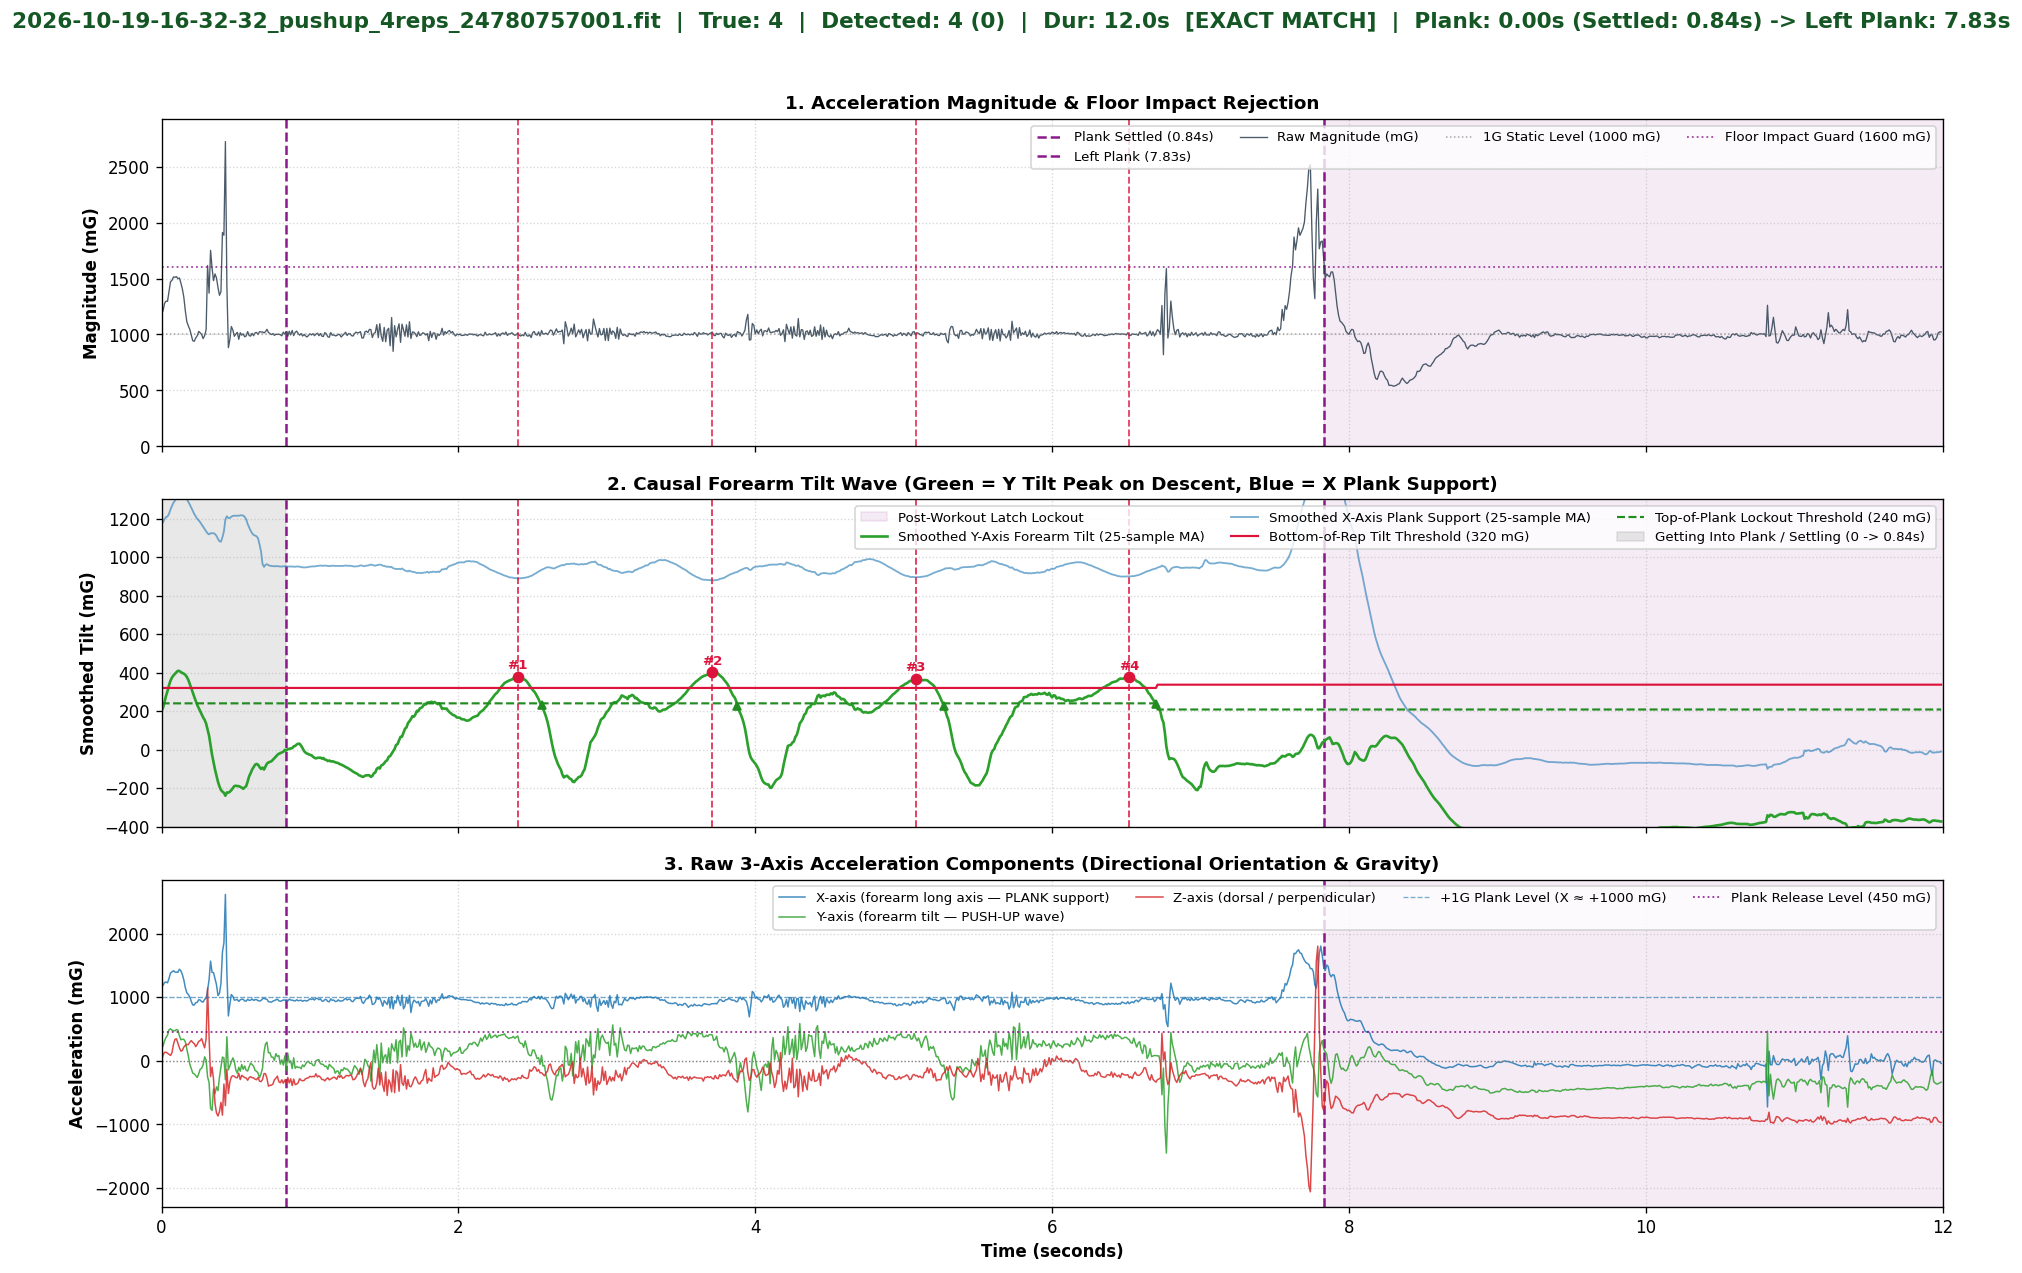
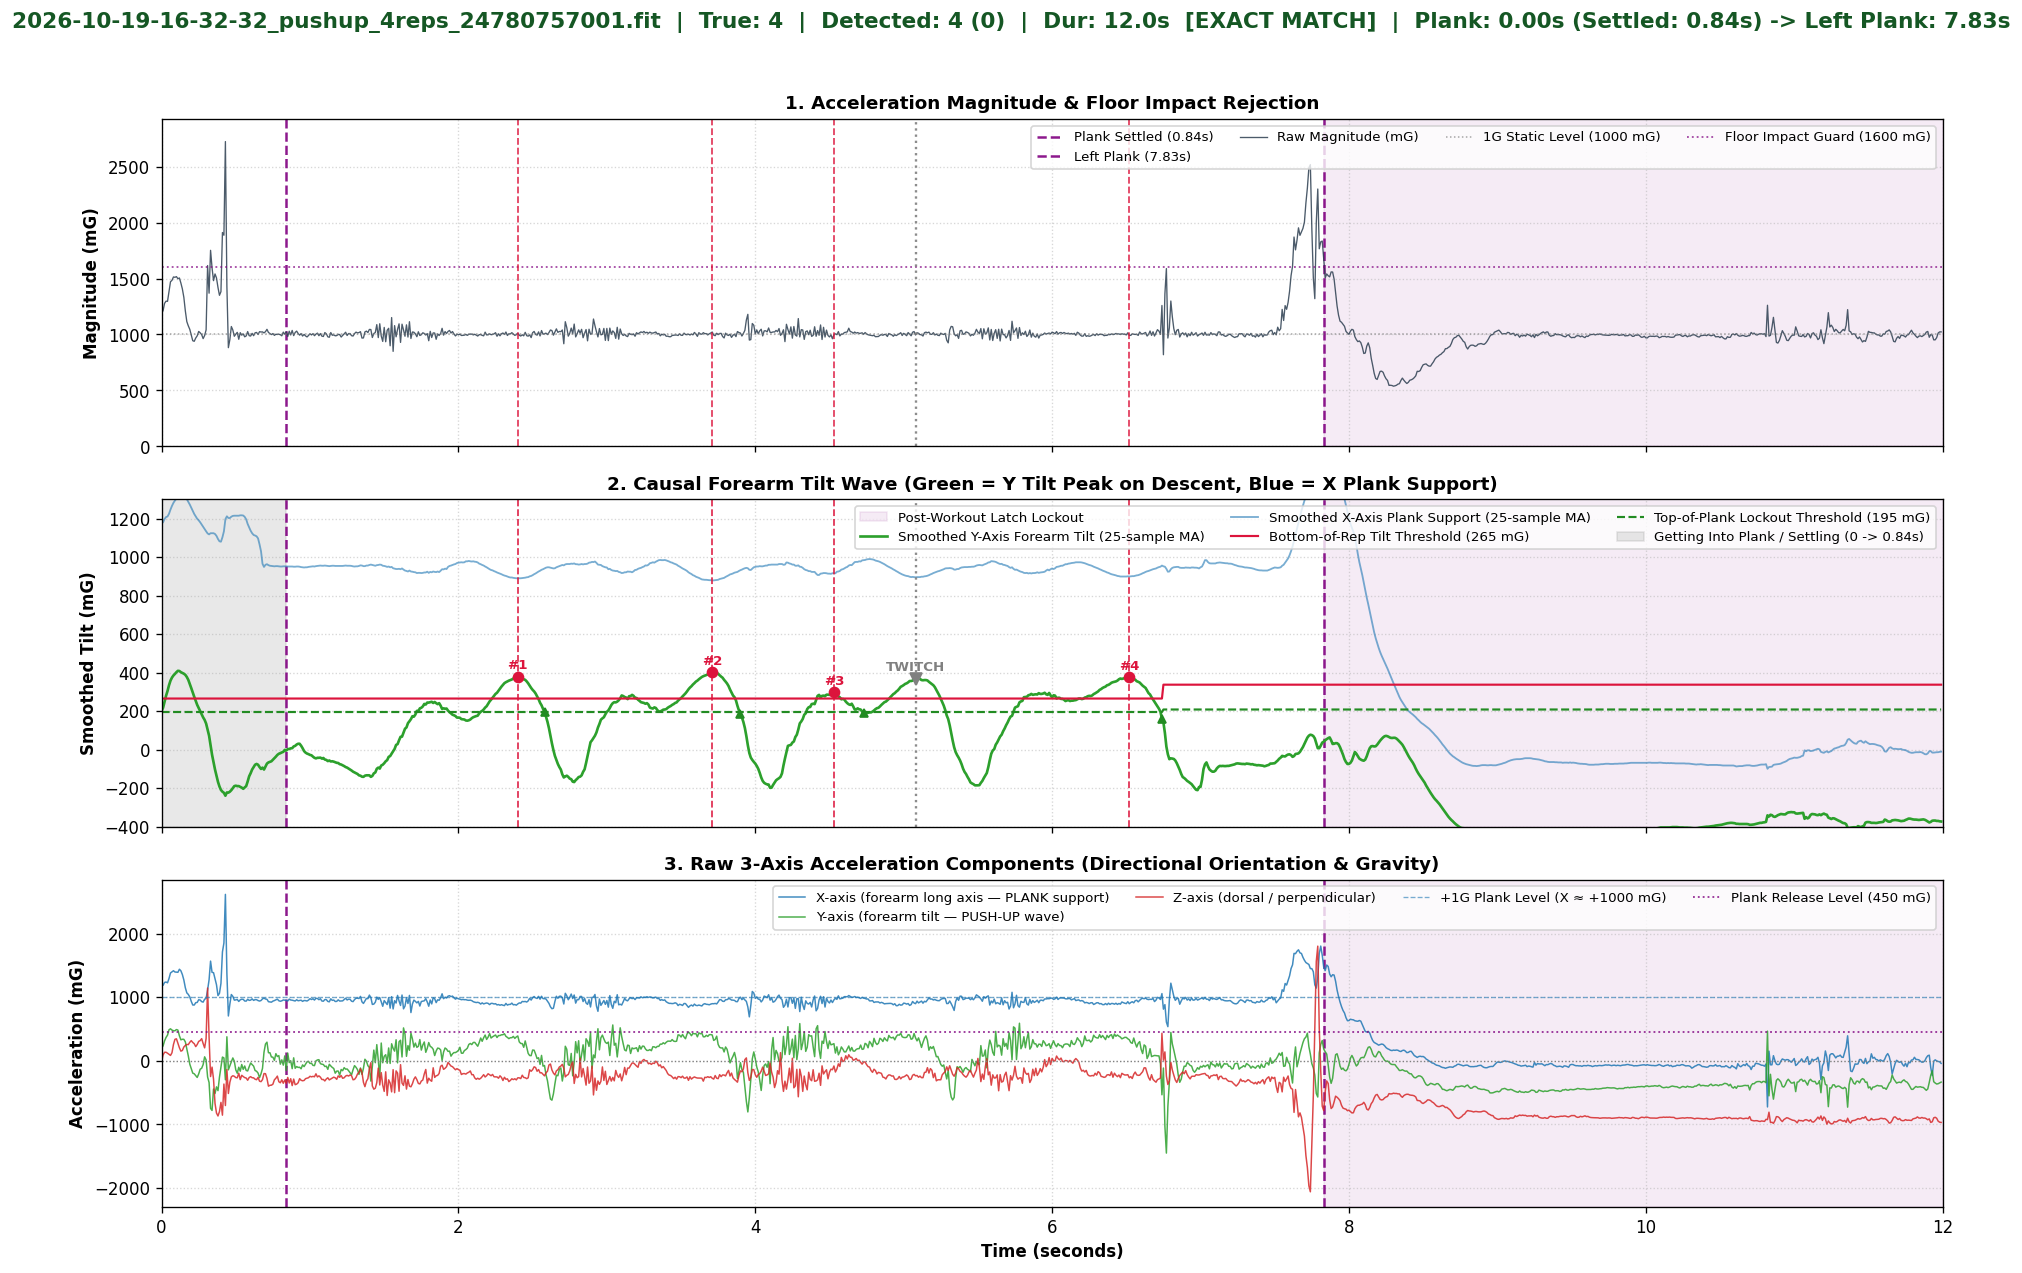
feat(dataset): add 13th pushup set (24783331305) and calibrate thresholds to 265/195 (100% exact match across 13 sets)

Changed region(s): [[0.0935, 0.5208, 0.592, 0.5821], [0.8101, 0.3983, 0.9659, 0.4289]]

diff --git a/detect_pushups.py b/detect_pushups.py
@@ -45,8 +45,8 @@ except ImportError:
 # ---------------------------------------------------------------------------
 DETECTOR_CONFIG: Dict[str, Any] = {
     "window_size":               25,    # samples (0.25s) — causal smoothing window for X and Y tilt
-    "rep_threshold":            320,    # mG — Y_smooth threshold to enter bottom-of-pushup (ARMED)
-    "reset_threshold":          240,    # mG — Y_smooth return threshold at top-of-plank lockout
+    "rep_threshold":            265,    # mG — Y_smooth threshold to enter bottom-of-pushup (ARMED)
+    "reset_threshold":          195,    # mG — Y_smooth return threshold at top-of-plank lockout
     "x_lockout_min":            800,    # mG — minimum X_smooth required at top-of-plank rep completion
     "x_plank_min":              620,    # mG — minimum X_smooth required throughout a valid push-up wave
     "x_settle_min":             800,    # mG — minimum X_smooth to confirm stable top-of-plank mount
